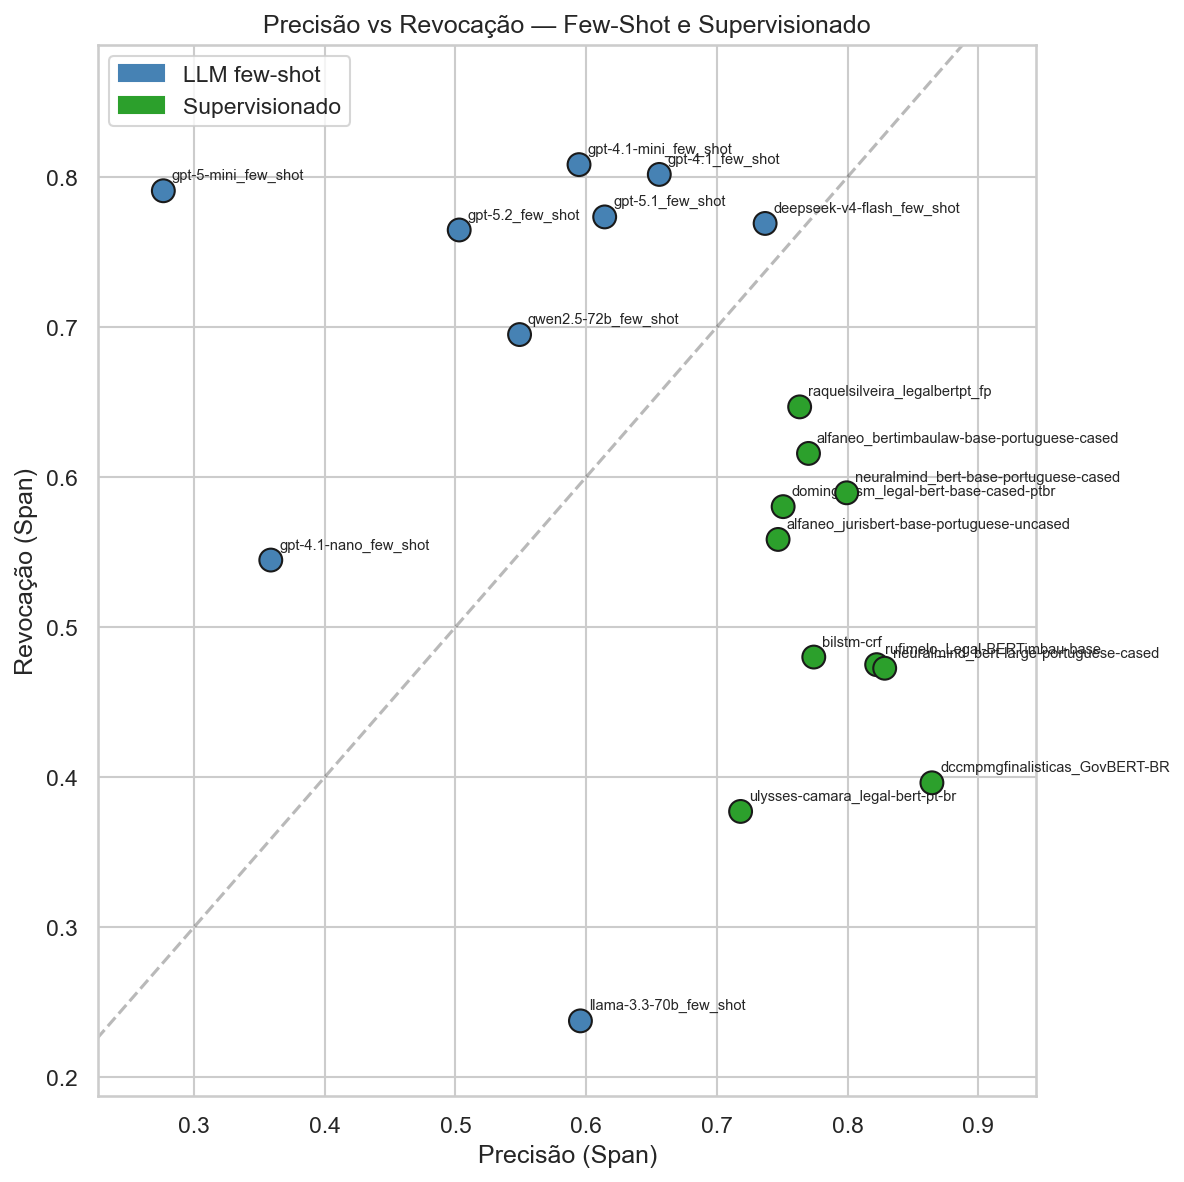
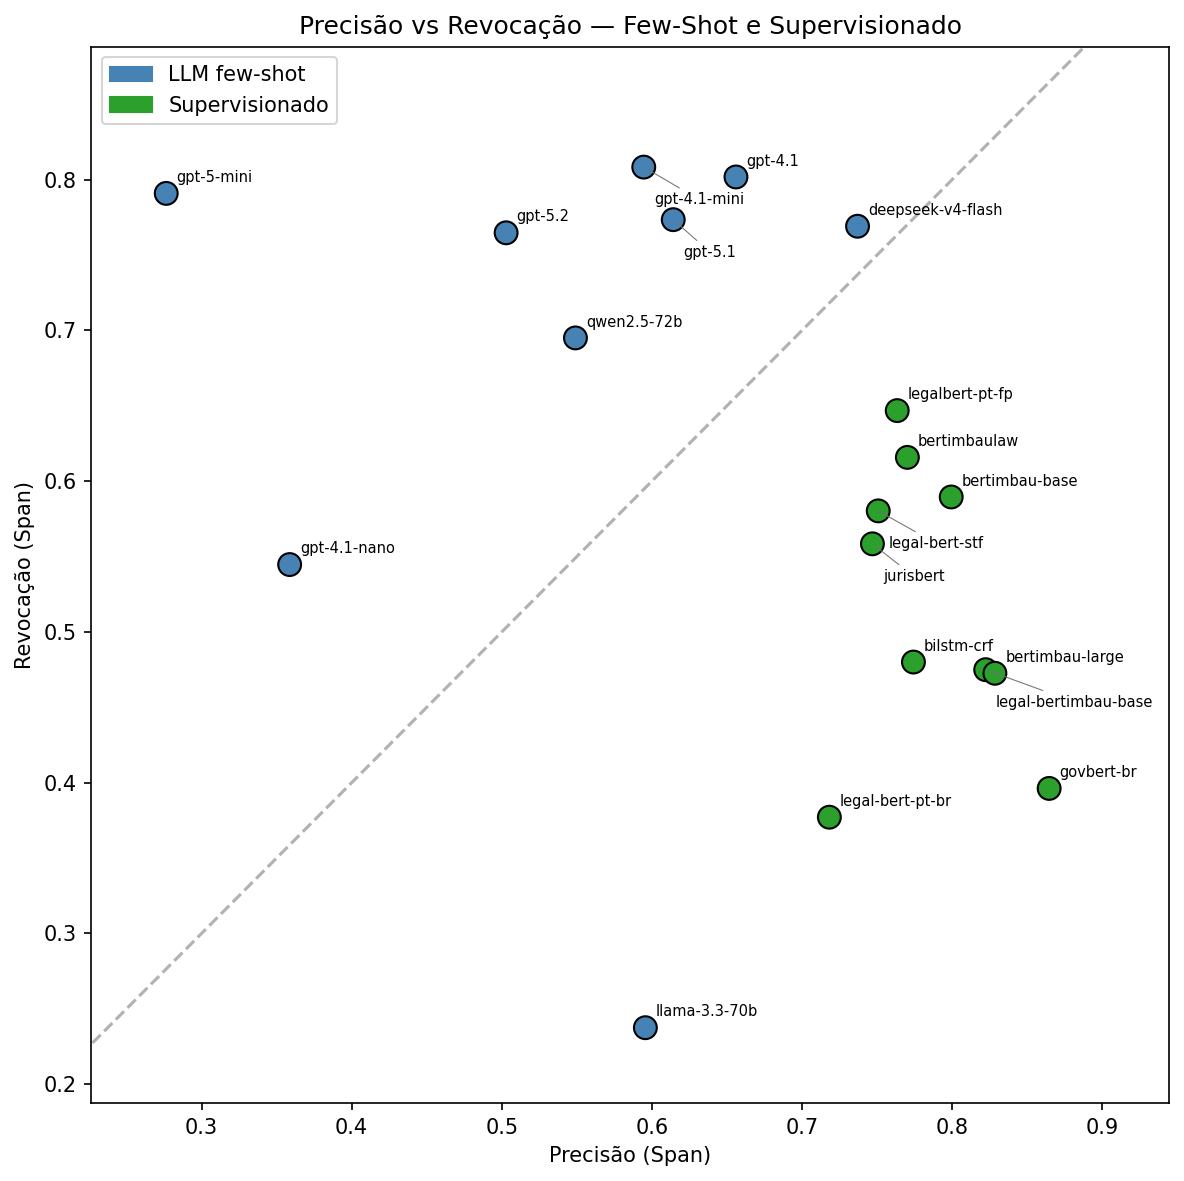
fix: rótulos sem sobreposição na figura precisão vs revocação

diff --git a/research/release/regenerate_figures.py b/research/release/regenerate_figures.py
@@ -34,6 +34,7 @@ import numpy as np
 import pandas as pd
 import seaborn as sns
 from matplotlib.patches import Patch
+from matplotlib.transforms import Bbox
 
 
 from research.release import paths
@@ -211,7 +212,87 @@ def fig_exp1_entity_heatmap(df: pd.DataFrame) -> None:
     _save(fig, "exp1_entity_heatmap")
 
 
+# Nomes de exibição da Figura 11 — os mesmos slugs \texttt{...} usados no texto
+# da dissertação (Capítulos 4 e 5).
+EXP1_LABELS = {
+    "deepseek-v4-flash_few_shot": "deepseek-v4-flash",
+    "gpt-4.1_few_shot": "gpt-4.1",
+    "gpt-4.1-mini_few_shot": "gpt-4.1-mini",
+    "gpt-4.1-nano_few_shot": "gpt-4.1-nano",
+    "gpt-5-mini_few_shot": "gpt-5-mini",
+    "gpt-5.1_few_shot": "gpt-5.1",
+    "gpt-5.2_few_shot": "gpt-5.2",
+    "qwen2.5-72b_few_shot": "qwen2.5-72b",
+    "llama-3.3-70b_few_shot": "llama-3.3-70b",
+    "raquelsilveira_legalbertpt_fp": "legalbert-pt-fp",
+    "alfaneo_bertimbaulaw-base-portuguese-cased": "bertimbaulaw",
+    "alfaneo_jurisbert-base-portuguese-uncased": "jurisbert",
+    "neuralmind_bert-base-portuguese-cased": "bertimbau-base",
+    "neuralmind_bert-large-portuguese-cased": "bertimbau-large",
+    "dominguesm_legal-bert-base-cased-ptbr": "legal-bert-stf",
+    "rufimelo_Legal-BERTimbau-base": "legal-bertimbau-base",
+    "dccmpmgfinalisticas_GovBERT-BR": "govbert-br",
+    "ulysses-camara_legal-bert-pt-br": "legal-bert-pt-br",
+    "bilstm-crf": "bilstm-crf",
+}
+
+
+def _annotate_no_overlap(fig: plt.Figure, ax: plt.Axes, df: pd.DataFrame) -> None:
+    """Label each scatter point trying candidate offsets until the text box
+    collides with nothing already drawn (labels, markers, legend); placements
+    afastados ganham uma linha-guia fina. Determinístico."""
+    fig.canvas.draw()
+    renderer = fig.canvas.get_renderer()
+    pts = ax.transData.transform(df[["span_precision", "span_recall"]].to_numpy())
+    keep_out = [Bbox.from_bounds(x - 7, y - 7, 14, 14) for x, y in pts]
+    axes_box = ax.get_window_extent(renderer)
+    placed: list[Bbox] = []
+    legend = ax.get_legend()
+    if legend is not None:
+        placed.append(legend.get_window_extent(renderer))
+    candidates = [
+        (5, 4, "left", "bottom"), (5, -12, "left", "top"),
+        (-5, 4, "right", "bottom"), (-5, -12, "right", "top"),
+        (5, 16, "left", "bottom"), (-5, 16, "right", "bottom"),
+        (5, -26, "left", "top"), (-5, -26, "right", "top"),
+        (18, -4, "left", "center"), (-18, -4, "right", "center"),
+        (8, 30, "left", "bottom"), (-8, 30, "right", "bottom"),
+        (8, -44, "left", "top"), (-8, -44, "right", "top"),
+        (30, 14, "left", "bottom"), (-30, 14, "right", "bottom"),
+        (10, 58, "left", "bottom"), (10, -72, "left", "top"),
+    ]
+    for i, (_, row) in enumerate(df.iterrows()):
+        xy = (row["span_precision"], row["span_recall"])
+        others = keep_out[:i] + keep_out[i + 1:]
+        for j, (dx, dy, ha, va) in enumerate(candidates):
+            # mede a colisão com o texto puro; a linha-guia entraria no bbox
+            # da anotação e inflaria a caixa, estragando o posicionamento
+            ann = ax.annotate(
+                row["model"], xy, fontsize=7, ha=ha, va=va,
+                xytext=(dx, dy), textcoords="offset points", zorder=6,
+            )
+            box = ann.get_window_extent(renderer).expanded(1.08, 1.2)
+            inside = axes_box.contains(box.x0, box.y0) and axes_box.contains(box.x1, box.y1)
+            collides = any(box.overlaps(b) for b in placed) or any(
+                box.overlaps(k) for k in others
+            )
+            if (inside and not collides) or j == len(candidates) - 1:
+                if abs(dx) >= 8 or abs(dy) >= 12:
+                    ann.remove()
+                    ann = ax.annotate(
+                        row["model"], xy, fontsize=7, ha=ha, va=va,
+                        xytext=(dx, dy), textcoords="offset points", zorder=6,
+                        arrowprops=dict(
+                            arrowstyle="-", lw=0.5, color="0.45", shrinkA=0, shrinkB=2
+                        ),
+                    )
+                placed.append(box)
+                break
+            ann.remove()
+
+
 def fig_exp1_precision_recall(df: pd.DataFrame) -> None:
+    df = df.assign(model=df["model"].map(lambda m: EXP1_LABELS.get(m, m)))
     paradigm_colors = df["paradigm"].map(
         {"supervised": "#2ca02c", "few-shot": "steelblue"}
     )
@@ -220,12 +301,6 @@ def fig_exp1_precision_recall(df: pd.DataFrame) -> None:
         df["span_precision"], df["span_recall"], s=120, c=paradigm_colors,
         edgecolors="k", zorder=5,
     )
-    for _, row in df.iterrows():
-        ax.annotate(
-            row["model"], (row["span_precision"], row["span_recall"]),
-            fontsize=7, ha="left", va="bottom", xytext=(4, 4),
-            textcoords="offset points",
-        )
     ax.plot([0, 1], [0, 1], "k--", alpha=0.3)
     ax.set_xlabel("Precisão (Span)")
     ax.set_ylabel("Revocação (Span)")
@@ -240,6 +315,7 @@ def fig_exp1_precision_recall(df: pd.DataFrame) -> None:
         Patch(color="#2ca02c", label="Supervisionado"),
     ])
     plt.tight_layout()
+    _annotate_no_overlap(fig, ax, df)
     _save(fig, "exp1_precision_recall")
 
 
